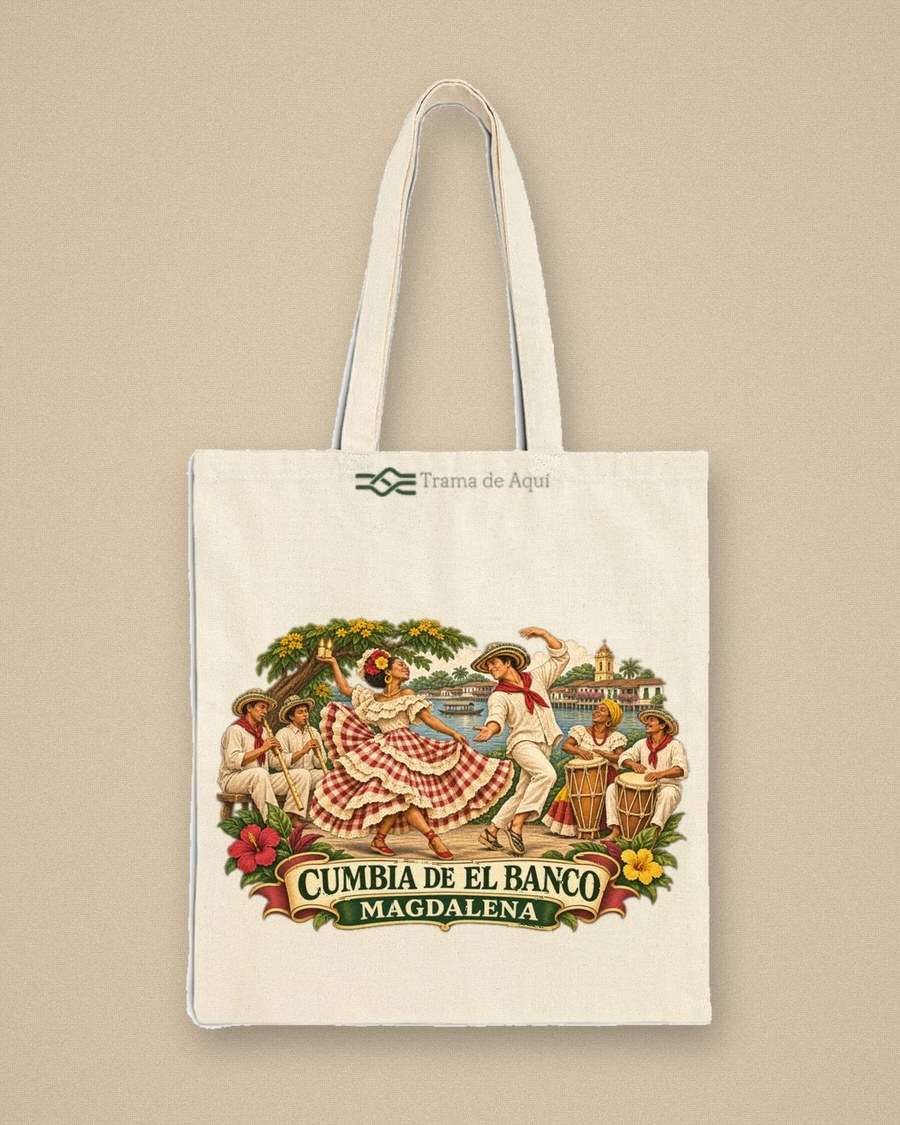
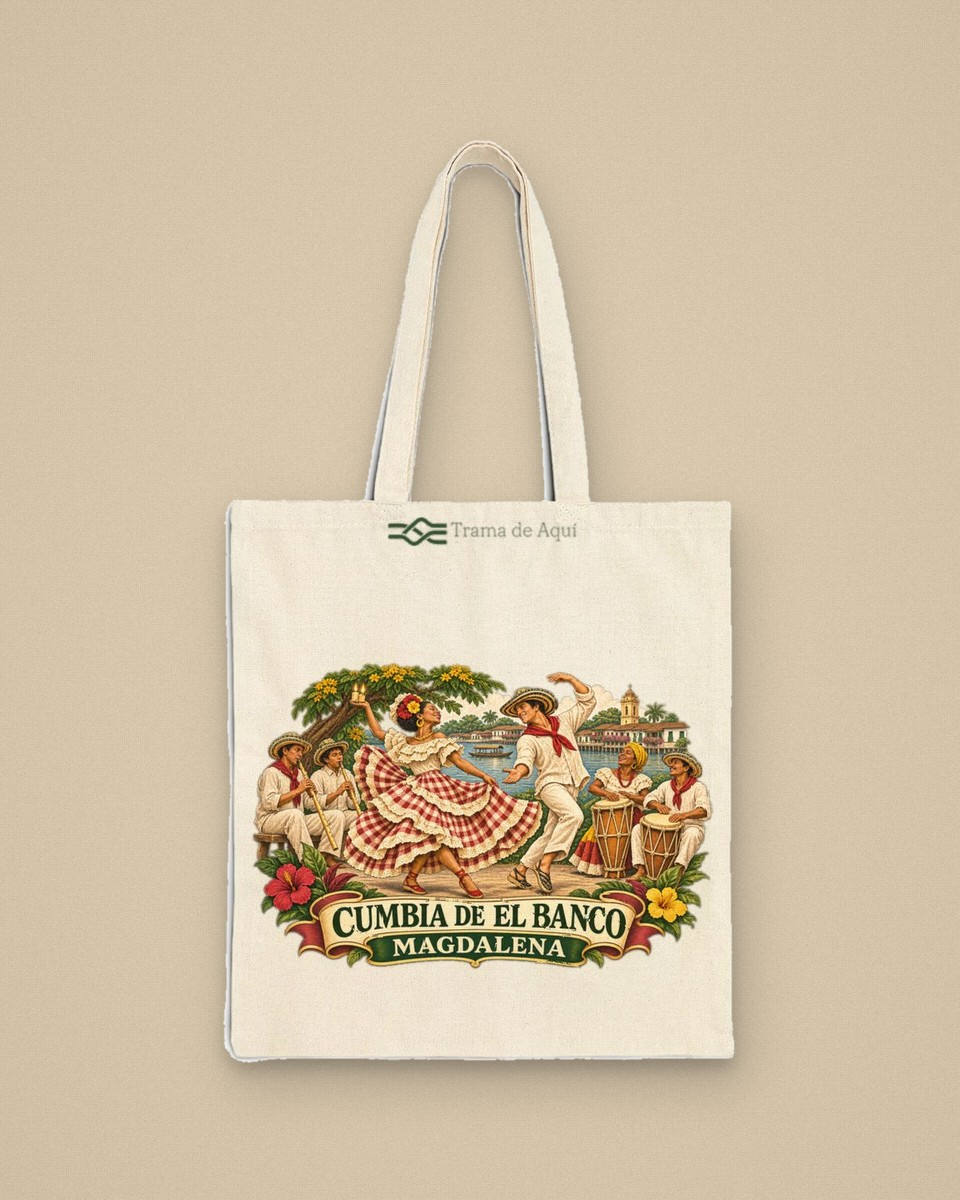
Hero: bolso completo (sin recorte), más margen y sombra realista pulida
- object-fit: contain para que nunca se recorte el bolso (las asas se ven
  enteras); el relleno sobrante usa el mismo tono de lino
- Horneado mejorado: más margen alrededor del bolso, textura de lino más
  limpia y sombra en dos capas (contacto + ambiental) para dar profundidad

Claude-Session: https://claude.ai/code/session_019MV2ChF65GATnSuXp8dAgF

Changed region(s): [[0.1867, 0.0622, 0.8089, 0.9333]]

diff --git a/panel.html b/panel.html
@@ -13,7 +13,7 @@
 <link rel="preconnect" href="https://fonts.googleapis.com">
 <link rel="preconnect" href="https://fonts.gstatic.com" crossorigin>
 <link href="https://fonts.googleapis.com/css2?family=Fraunces:ital,opsz,wght@0,9..144,400;0,9..144,500;0,9..144,600;1,9..144,400&family=Nunito:wght@500;600;700;800&display=swap" rel="stylesheet">
-<link rel="stylesheet" href="assets/css/styles.css?v=22">
+<link rel="stylesheet" href="assets/css/styles.css?v=23">
 <link rel="stylesheet" href="assets/css/panel.css?v=2">
 </head>
 <body data-page="panel" class="panel-body">

diff --git a/privacidad.html b/privacidad.html
@@ -14,7 +14,7 @@
 <link rel="preconnect" href="https://fonts.googleapis.com">
 <link rel="preconnect" href="https://fonts.gstatic.com" crossorigin>
 <link href="https://fonts.googleapis.com/css2?family=Fraunces:ital,opsz,wght@0,9..144,400;0,9..144,500;1,9..144,400&family=Nunito:wght@600;700;800&display=swap" rel="stylesheet">
-<link rel="stylesheet" href="assets/css/styles.css?v=22">
+<link rel="stylesheet" href="assets/css/styles.css?v=23">
 </head>
 <body data-page="privacidad">
 <a class="sr-only" href="#main">Saltar al contenido</a>

diff --git a/contacto.html b/contacto.html
@@ -13,7 +13,7 @@
 <link rel="preconnect" href="https://fonts.googleapis.com">
 <link rel="preconnect" href="https://fonts.gstatic.com" crossorigin>
 <link href="https://fonts.googleapis.com/css2?family=Fraunces:ital,opsz,wght@0,9..144,400;0,9..144,500;1,9..144,400&family=Nunito:wght@600;700;800&display=swap" rel="stylesheet">
-<link rel="stylesheet" href="assets/css/styles.css?v=22">
+<link rel="stylesheet" href="assets/css/styles.css?v=23">
 </head>
 <body data-page="contacto">
 <a class="sr-only" href="#main">Saltar al contenido</a>

diff --git a/historia.html b/historia.html
@@ -18,7 +18,7 @@
 <link rel="preconnect" href="https://fonts.googleapis.com">
 <link rel="preconnect" href="https://fonts.gstatic.com" crossorigin>
 <link href="https://fonts.googleapis.com/css2?family=Fraunces:ital,opsz,wght@0,9..144,400;0,9..144,500;1,9..144,400&family=Nunito:wght@600;700;800&display=swap" rel="stylesheet">
-<link rel="stylesheet" href="assets/css/styles.css?v=22">
+<link rel="stylesheet" href="assets/css/styles.css?v=23">
 </head>
 <body data-page="historia">
 <a class="sr-only" href="#main">Saltar al contenido</a>

diff --git a/producto.html b/producto.html
@@ -18,7 +18,7 @@
 <link rel="preconnect" href="https://fonts.googleapis.com">
 <link rel="preconnect" href="https://fonts.gstatic.com" crossorigin>
 <link href="https://fonts.googleapis.com/css2?family=Fraunces:ital,opsz,wght@0,9..144,400;0,9..144,500;1,9..144,400&family=Nunito:wght@600;700;800&display=swap" rel="stylesheet">
-<link rel="stylesheet" href="assets/css/styles.css?v=22">
+<link rel="stylesheet" href="assets/css/styles.css?v=23">
 </head>
 <body data-page="producto">
 <a class="sr-only" href="#main">Saltar al contenido</a>

diff --git a/carrito.html b/carrito.html
@@ -18,7 +18,7 @@
 <link rel="preconnect" href="https://fonts.googleapis.com">
 <link rel="preconnect" href="https://fonts.gstatic.com" crossorigin>
 <link href="https://fonts.googleapis.com/css2?family=Fraunces:ital,opsz,wght@0,9..144,400;0,9..144,500;1,9..144,400&family=Nunito:wght@600;700;800&display=swap" rel="stylesheet">
-<link rel="stylesheet" href="assets/css/styles.css?v=22">
+<link rel="stylesheet" href="assets/css/styles.css?v=23">
 </head>
 <body data-page="carrito">
 <a class="sr-only" href="#main">Saltar al contenido</a>

diff --git a/regalos.html b/regalos.html
@@ -18,7 +18,7 @@
 <link rel="preconnect" href="https://fonts.googleapis.com">
 <link rel="preconnect" href="https://fonts.gstatic.com" crossorigin>
 <link href="https://fonts.googleapis.com/css2?family=Fraunces:ital,opsz,wght@0,9..144,400;0,9..144,500;1,9..144,400&family=Nunito:wght@600;700;800&display=swap" rel="stylesheet">
-<link rel="stylesheet" href="assets/css/styles.css?v=22">
+<link rel="stylesheet" href="assets/css/styles.css?v=23">
 </head>
 <body data-page="regalos">
 <a class="sr-only" href="#main">Saltar al contenido</a>

diff --git a/envios.html b/envios.html
@@ -14,7 +14,7 @@
 <link rel="preconnect" href="https://fonts.googleapis.com">
 <link rel="preconnect" href="https://fonts.gstatic.com" crossorigin>
 <link href="https://fonts.googleapis.com/css2?family=Fraunces:ital,opsz,wght@0,9..144,400;0,9..144,500;1,9..144,400&family=Nunito:wght@600;700;800&display=swap" rel="stylesheet">
-<link rel="stylesheet" href="assets/css/styles.css?v=22">
+<link rel="stylesheet" href="assets/css/styles.css?v=23">
 </head>
 <body data-page="envios">
 <a class="sr-only" href="#main">Saltar al contenido</a>

diff --git a/index.html b/index.html
@@ -18,7 +18,7 @@
 <link rel="preconnect" href="https://fonts.googleapis.com">
 <link rel="preconnect" href="https://fonts.gstatic.com" crossorigin>
 <link href="https://fonts.googleapis.com/css2?family=Fraunces:ital,opsz,wght@0,9..144,400;0,9..144,500;1,9..144,400&family=Nunito:wght@600;700;800&display=swap" rel="stylesheet">
-<link rel="stylesheet" href="assets/css/styles.css?v=22">
+<link rel="stylesheet" href="assets/css/styles.css?v=23">
 </head>
 <body data-page="inicio">
 <a class="sr-only" href="#main">Saltar al contenido</a>

diff --git a/tienda.html b/tienda.html
@@ -18,7 +18,7 @@
 <link rel="preconnect" href="https://fonts.googleapis.com">
 <link rel="preconnect" href="https://fonts.gstatic.com" crossorigin>
 <link href="https://fonts.googleapis.com/css2?family=Fraunces:ital,opsz,wght@0,9..144,400;0,9..144,500;1,9..144,400&family=Nunito:wght@600;700;800&display=swap" rel="stylesheet">
-<link rel="stylesheet" href="assets/css/styles.css?v=22">
+<link rel="stylesheet" href="assets/css/styles.css?v=23">
 </head>
 <body data-page="tienda">
 <a class="sr-only" href="#main">Saltar al contenido</a>

diff --git a/pago.html b/pago.html
@@ -19,7 +19,7 @@
 <link rel="preconnect" href="https://fonts.googleapis.com">
 <link rel="preconnect" href="https://fonts.gstatic.com" crossorigin>
 <link href="https://fonts.googleapis.com/css2?family=Fraunces:ital,opsz,wght@0,9..144,400;0,9..144,500;1,9..144,400&family=Nunito:wght@600;700;800&display=swap" rel="stylesheet">
-<link rel="stylesheet" href="assets/css/styles.css?v=22">
+<link rel="stylesheet" href="assets/css/styles.css?v=23">
 </head>
 <body data-page="pago">
 <a class="sr-only" href="#main">Saltar al contenido</a>

diff --git a/404.html b/404.html
@@ -18,7 +18,7 @@
 <link rel="preconnect" href="https://fonts.googleapis.com">
 <link rel="preconnect" href="https://fonts.gstatic.com" crossorigin>
 <link href="https://fonts.googleapis.com/css2?family=Fraunces:ital,opsz,wght@0,9..144,400;0,9..144,500;1,9..144,400&family=Nunito:wght@600;700;800&display=swap" rel="stylesheet">
-<link rel="stylesheet" href="assets/css/styles.css?v=22">
+<link rel="stylesheet" href="assets/css/styles.css?v=23">
 </head>
 <body data-page="404">
 <a class="sr-only" href="#main">Saltar al contenido</a>
